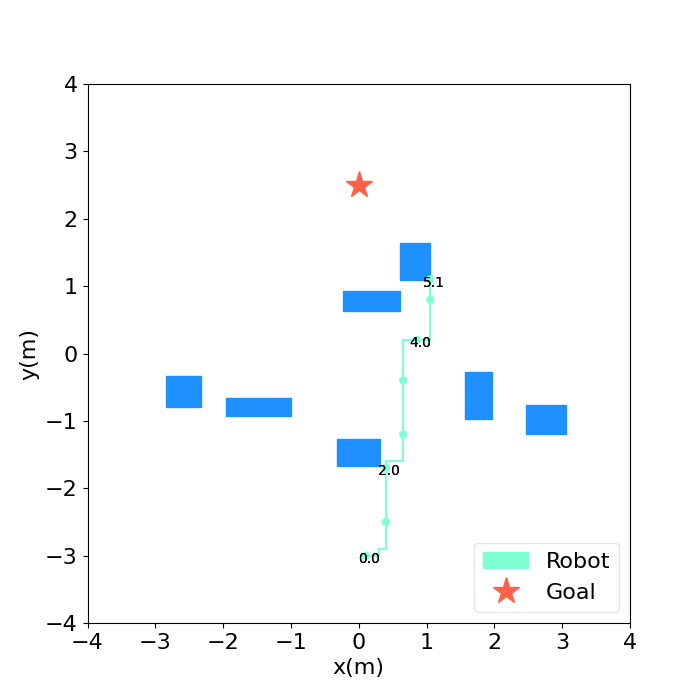
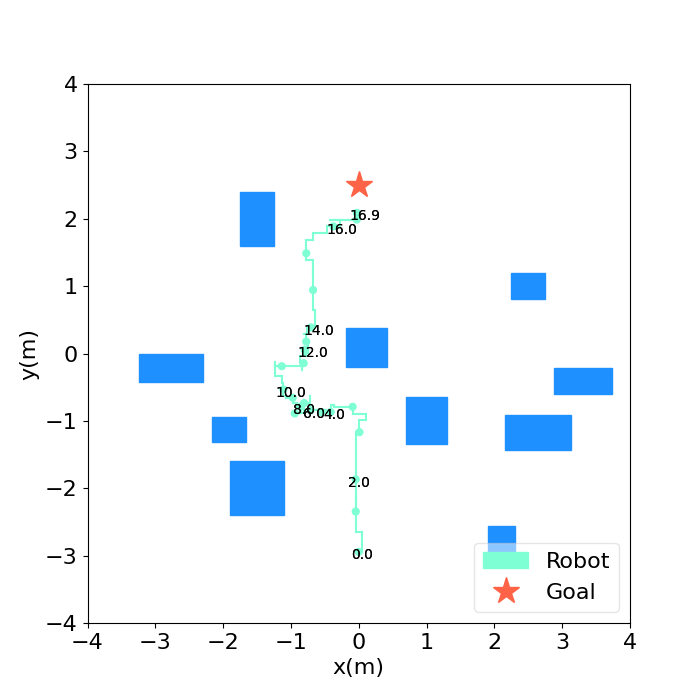
evaluation

diff --git a/train.py b/train.py
@@ -34,6 +34,8 @@ def run(n_episodes, frames, eps_fixed, eps_frames, min_eps):
     logger['timeout_rate'] = []
     logger['collision_rate'] = []
     logger['losses'] = []
+    logger['stage_point'] = []
+    logger['new_success_rate'] = []
 
     frame = 0
     if eps_fixed:
@@ -47,7 +49,11 @@ def run(n_episodes, frames, eps_fixed, eps_frames, min_eps):
     collision = 0
     timeout = 0
     score = 0                  
-    success_rates = deque(maxlen=25)
+
+    success_rates = deque(maxlen=50)
+    for _ in range(50):
+        success_rates.append(0)
+    new_success_rate = np.sum(success_rates) / len(success_rates)
 
     state, obs_num = env.reset()
     # sample CVaR as risk-averse level (0, 1) interval excluding both ends
@@ -95,9 +101,13 @@ def run(n_episodes, frames, eps_fixed, eps_frames, min_eps):
             if i_episode == n_episodes:
                 break
             
-            success_rates.append(success / i_episode)
-            if np.average(success_rates) >= 0.8:
+            success_rates.append(1 if info == "Reached" else 0)
+            new_success_rate = np.sum(success_rates) / len(success_rates)
+            logger['new_success_rate'].append(new_success_rate)
+            if success / i_episode >= 0.8:
                 env.set_training_stage('second')
+                if len(logger['stage_point']) < 1:
+                    logger['stage_point'].append(i_episode)
             state, obs_num = env.reset()
             cvar = 1 - np.random.uniform(0.0, 1.0)
             score = 0
@@ -123,10 +133,10 @@ if __name__ == "__main__":
     parser.add_argument('--gamma', default=0.99, type=float, help='Gamma discount factor')
     parser.add_argument('--tau', default=1e-2, type=float, help='Tau for soft updating the network weights')
     parser.add_argument('--lr', default=2e-4, type=float, help='Learning rate')
-    parser.add_argument('--buffer_size', default=50000, type=int, help='Buffer size of the replay memory')
+    parser.add_argument('--buffer_size', default=60000, type=int, help='Buffer size of the replay memory')
     parser.add_argument('--frames', default=100000, type=int, help='Number of training frames')
     parser.add_argument('--n_episodes', default=2000, type=int, help='Number of episodes of training')
-    parser.add_argument('--obstacle_num', default=3, type=int, help='Number of obstacles set in the env')
+    parser.add_argument('--obstacle_num', default=5, type=int, help='Number of obstacles set in the env')
     parser.add_argument('--random_obstacle', default=1, type=int, help='Enable random obstacle generation or fixed obstacle position')
     args = parser.parse_args()
 

diff --git a/agent.py b/agent.py
@@ -10,7 +10,7 @@ from crazyflie_env.envs.utils.action import ActionXY
 class DQNAgent():
     """Interacts with and learns from the environment."""
     def __init__(self, state_size, num_directions, num_speeds, layer_size, n_step, BATCH_SIZE, BUFFER_SIZE,
-                LR, TAU, GAMMA, UPDATE_EVERY, device, seed, distortion, con_val_at_risk):
+                LR, TAU, GAMMA, UPDATE_EVERY, device, seed, distortion, con_val_at_risk, eval=False):
         """Initialize an Agent object.
         Params
         ======
@@ -32,7 +32,9 @@ class DQNAgent():
         self.num_speeds = num_speeds # larger num_speed give more precise speed control
         self.action_size = self.num_directions * self.num_speeds
         self.action_space = None # don't mess it around with env.action_space in gym
-        self.seed = random.seed(seed)
+        self.eval = eval
+        if not self.eval:
+            self.seed = random.seed(seed)
         self.device = device
         self.TAU = TAU
         self.GAMMA = GAMMA
@@ -51,11 +53,11 @@ class DQNAgent():
         #print(self.qnetwork_local)
         
         # Replay memory
-        self.memory = ReplayBuffer(BUFFER_SIZE, BATCH_SIZE, device, seed, GAMMA, n_step)
+        if not self.eval:
+            self.memory = ReplayBuffer(BUFFER_SIZE, BATCH_SIZE, device, seed, GAMMA, n_step)
         
         # Initialize time step (for updating every UPDATE_EVERY steps)
         self.t_step = 0
-    
 
     def update(self, state, action, reward, next_state, done):
         # Save experience in replay memory
@@ -83,7 +85,7 @@ class DQNAgent():
         none_zero_actions = [(r, v) for r in rotations for v in speeds]
         for r, v in none_zero_actions:
             action_space.append(ActionXY(v * np.cos(r), v * np.sin(r)))
-        print(action_space)
+        print("Num of discrete actions: {}".format(len(action_space)))
         
         return action_space
 

diff --git a/utils/util.py b/utils/util.py
@@ -68,6 +68,25 @@ def computeExperimentID(save_dir):
     return max(list_of_ids) + 1 if len(list_of_ids) else 0
 
 
+def concatenate_states(state, hist_steps):
+    """
+    Concatenate states after reset.
+    """
+    hist_state = deque(maxlen=hist_steps)
+    while len(hist_state) < hist_steps:
+        hist_state.append(state)
+
+    return hist_state
+
+
+def to_gym_interface_cat(hist_state):
+    position = np.array([state.position for state in hist_state]).T.flatten()
+    goal_distance = np.array([state.goal_distance for state in hist_state])
+    ranger_reflections = np.array([state.ranger_reflections for state in hist_state]).T.flatten()
+
+    return np.hstack([position, goal_distance, ranger_reflections])
+
+
 def plotValues(model, state):
     quantiles, taus = model(state)
     print(quantiles, '\n', taus)

diff --git a/test.py b/test.py
@@ -92,7 +92,7 @@ if __name__ == "__main__":
         score += reward
         #print("x {}, y {}, reward {}, info {} vx {}, vy {}".format(round(state.position[0], 5), round(state.position[1], 5), round(reward, 2), info, round(action.vx, 2), round(action.vy, 2)))
         print("dist {}, reward {}, {} vx {}, vy {} ranger {}".format(round(state.goal_distance, 6), round(reward, 2), info, round(action.vx, 2), round(action.vy, 2), state.ranger_reflections[1]))
-    print("Episodic return:", score)
+    print("Episodic return:", score, "Task time", env.global_time)
 
     print([[round(obs.centroid[0], 2), round(obs.centroid[1], 2), round(obs.wx, 2), round(obs.wy, 2)] for obs in env.obstacles])
     env.render(mode=args.render_mode, output_file="./figures/iqn_random_init", density=args.render_density)
